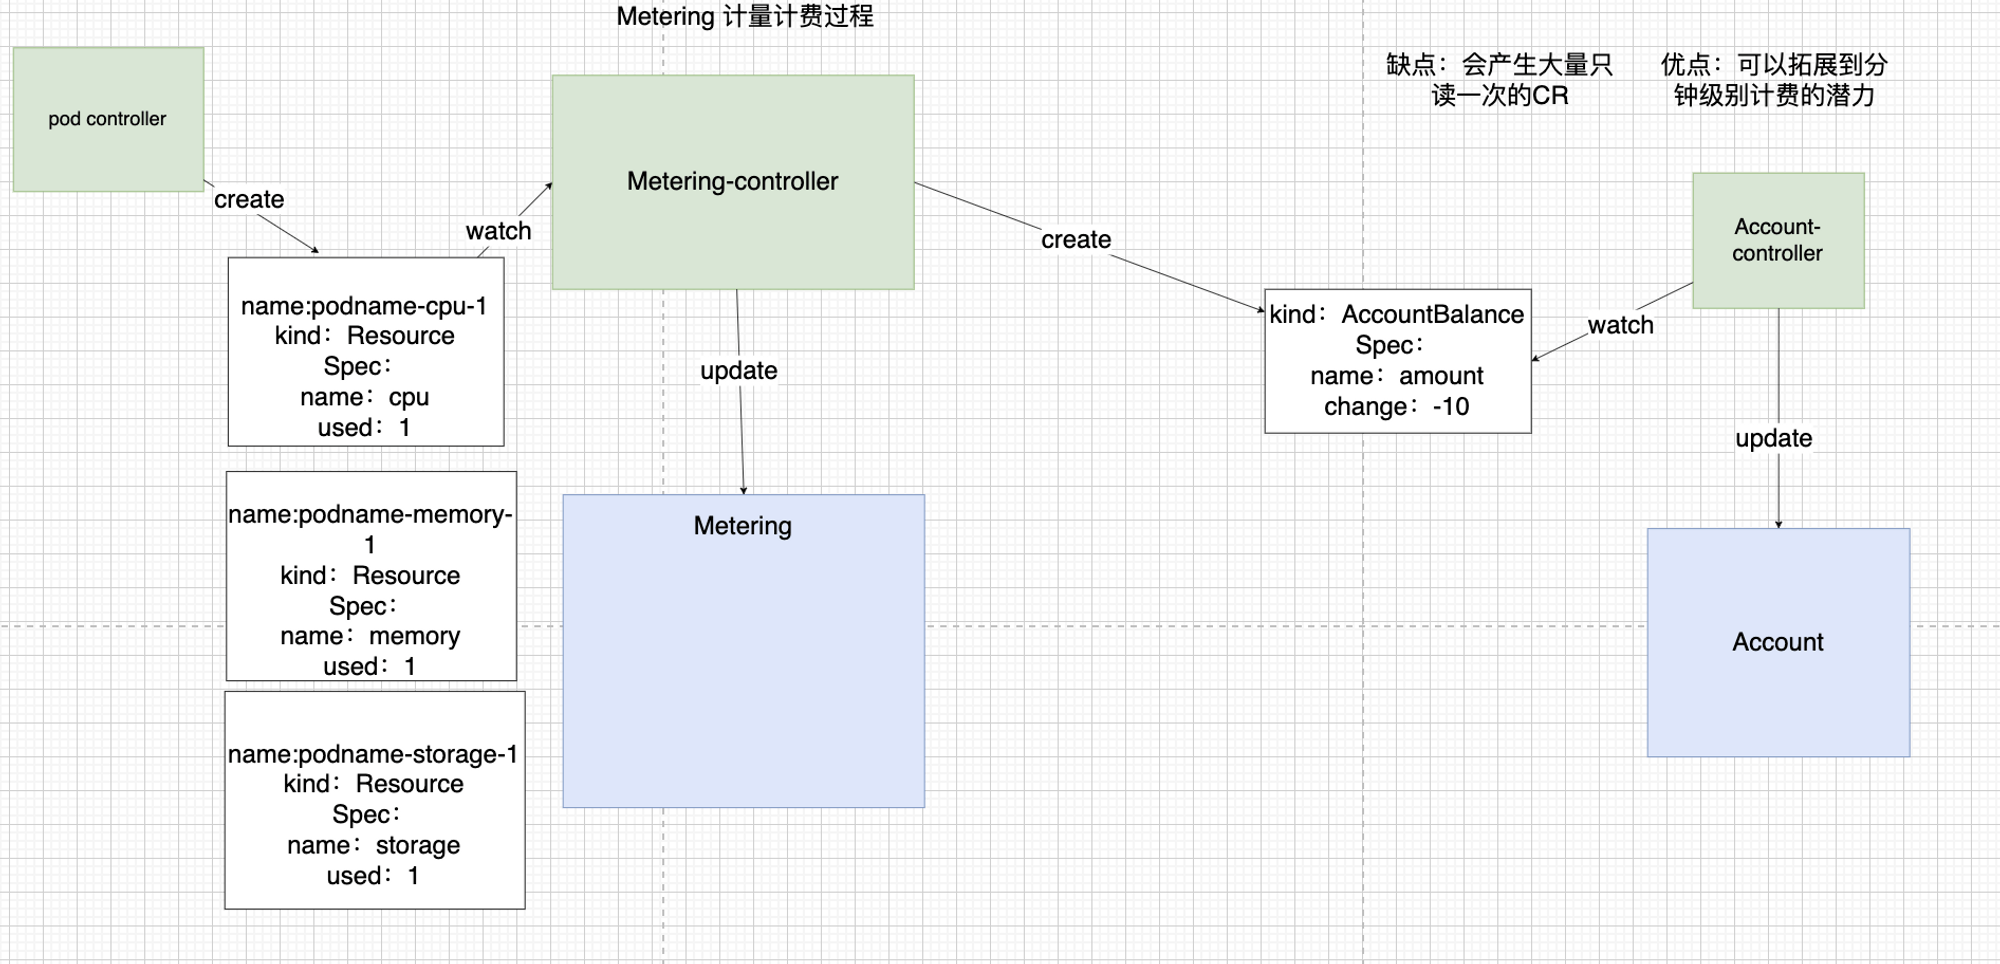
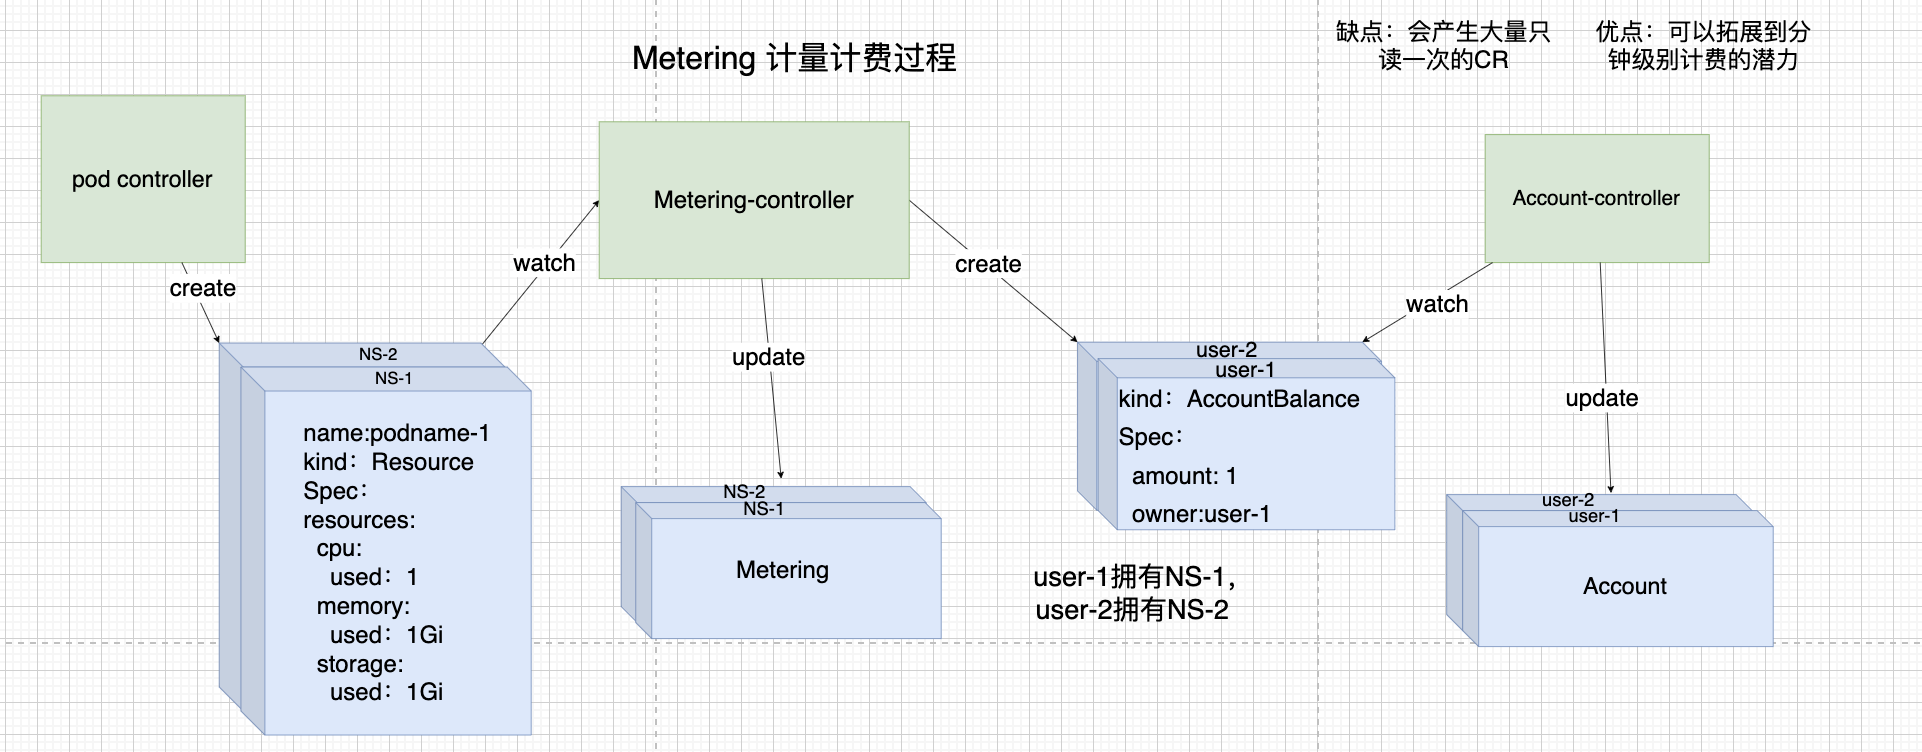
docs:update docs picture

diff --git a/proposal/design/zh/metering设计.md b/proposal/design/zh/metering设计.md
@@ -6,9 +6,9 @@
 
 整体流程会在官网的 design 文档中介绍， proposal 中会侧重于介绍 CRD 字段设计细节。
 
-## 二**、各个模块介绍**
+## 二、各个模块介绍
 
-### 1**、Metering（计量计费模块合一）**
+### 2.1、Metering（计量计费模块合一）
 
 计费方式：used/unit *price 就是需要扣除的的价格
 
@@ -35,7 +35,7 @@ spec:
   timeInterval: 60 //计费60分钟计费一次
 ```
 
-### 2、Resource-controller（以 podResource-controller举例）
+### 2.2、Resource-controller（以 podResource-controller举例）
 
 进行 resource 的统计，会创建 extensionresourceprice 来声明 cpu 和 memory 这两种资源要进行计量计费，并且将资源的申明注入到 Metering 中。
 
@@ -50,16 +50,16 @@ spec:
   interval: 60
   resources:
     cpu:
-      unit: "10"
-      price: 67
+      unit: "1"
+      price: 1
       describe: "cost per cpu per hour（price:100 = 1¥）"
     memory:
-      unit: "10G"
-      price: 33
+      unit: "1G"
+      price: 2
       describe: "the cost per gigabyte of memory per hour（price:100 = 1¥）"
 ```
 
-### 3、**ExtensionResourcesPrice**
+### 2.3、ExtensionResourcesPrice
 
 由 resource-controller 创建，创建的时候会把资源和价格更新到对应的 Metering
 
@@ -68,15 +68,15 @@ apiVersion: metering.sealos.io/v1
 Kind: ExtensionResourcesPrice
 Spec:
 resources: 
-  - name:cpu
-  unit: 10  //单位使用资源
-  price:67 // 单位资源价格
-  - name:memory
-  unit: 10  //单位使用资源
-  price:33  // 单位资源价格
+  cpu:
+    unit: 1  //单位使用资源
+    price:1 // 单位资源价格
+  memory:
+    unit: 1  //单位使用资源
+    price:2  // 单位资源价格
 ```
 
-### 4、Resource
+### 2.4、Resource
 
 ```yaml
 apiVersion: metering.sealos.io/v1
@@ -91,10 +91,10 @@ spec:
       time: 1672898068 //时间戳
       used: 1Gi
 status:
-  status: complete
+  status: complete //已经被metering-controller统计过了
 ```
 
-5、AccountBalance
+### 2.5、AccountBalance
 
 ```yaml
 apiVersion: user.sealos.io/v1
@@ -118,23 +118,9 @@ status:
 
 pod-controller需要创建 ExtensionResourcePrice 来让metering 知道这个资源也需要计量计费。
 
-```yaml
-apiVersion: metering.sealos.io/v1
-Kind: ExtensionResourcesPrice
-metadata:
-  name: podresource-sample
-  namespace: metering-system
-Spec:
-resources: 
-  - name:cpu
-  unit: 1  //单位使用资源
-  price:1  // 单位资源价格
-  - name:memory
-  unit: 1  //单位使用资源
-  price:2  // 单位资源价格
-```
+yaml文件同[2.3](# 2.3、ExtensionResourcesPrice)
 
-### 3.2 ExtensionResourcePrice-controller 注册资源信息
+### 3.2 Metering-controller 注册资源信息
 
 **Metering 初始信息：**
 
@@ -148,12 +134,12 @@ spec:
   namespace: ns-ff839a27-0a35-452f-820e-3e47d596ba68
   owner: ff839a27-0a35-452f-820e-3e47d596ba68
   resources:
-  timeInterval: 60 //计费60分钟计费一次
+  timeInterval: 60 //计费间隔：60分钟计费一次
 ```
 
 **改变后：**
 
-ExtensionResourcePrice-controller 把资源名字和价格注册进所有Metering里面。
+Metering-controller 把资源名字和价格注册进所有Metering里面。
 
 ```yaml
 apiVersion: metering.sealos.io/v1
@@ -173,7 +159,7 @@ spec:
       price: 2
       unit: 1G
       used: "0"
-  timeInterval: 60 //计费60分钟计费一次
+  timeInterval: 60 
 ```
 
 ## 四**、Metering计量计费流程**
@@ -214,7 +200,21 @@ spec:
 
 #### 4.3、Metering-controller计费过程：
 
-根据Metering CR中统计的资源使用量，根据价格表计算出价格，生成一个AccountBalance的CR，里面会存放需要扣除的金额。
+根据Metering CR中统计的资源使用量，根据价格表计算出价格，生成一个AccountBalance的CR，里面会存放需要扣除的金额，根据使用的资源量计算出需要支付1块钱。
+
+```
+apiVersion: user.sealos.io/v1
+kind: AccountBalance
+metadata:
+  name: accountbalance-b257ee11-5e85-4e3f-b1e4-4fa291dcdfd6-92
+  namespace: metering-system
+spec:
+  amount: 1 //需要支付的金额大小
+  owner: b257ee11-5e85-4e3f-b1e4-4fa291dcdfd6 //用户名字
+  timeStamp: 1672031381
+```
+
+
 
 #### 4.4、扣费过程：
 
